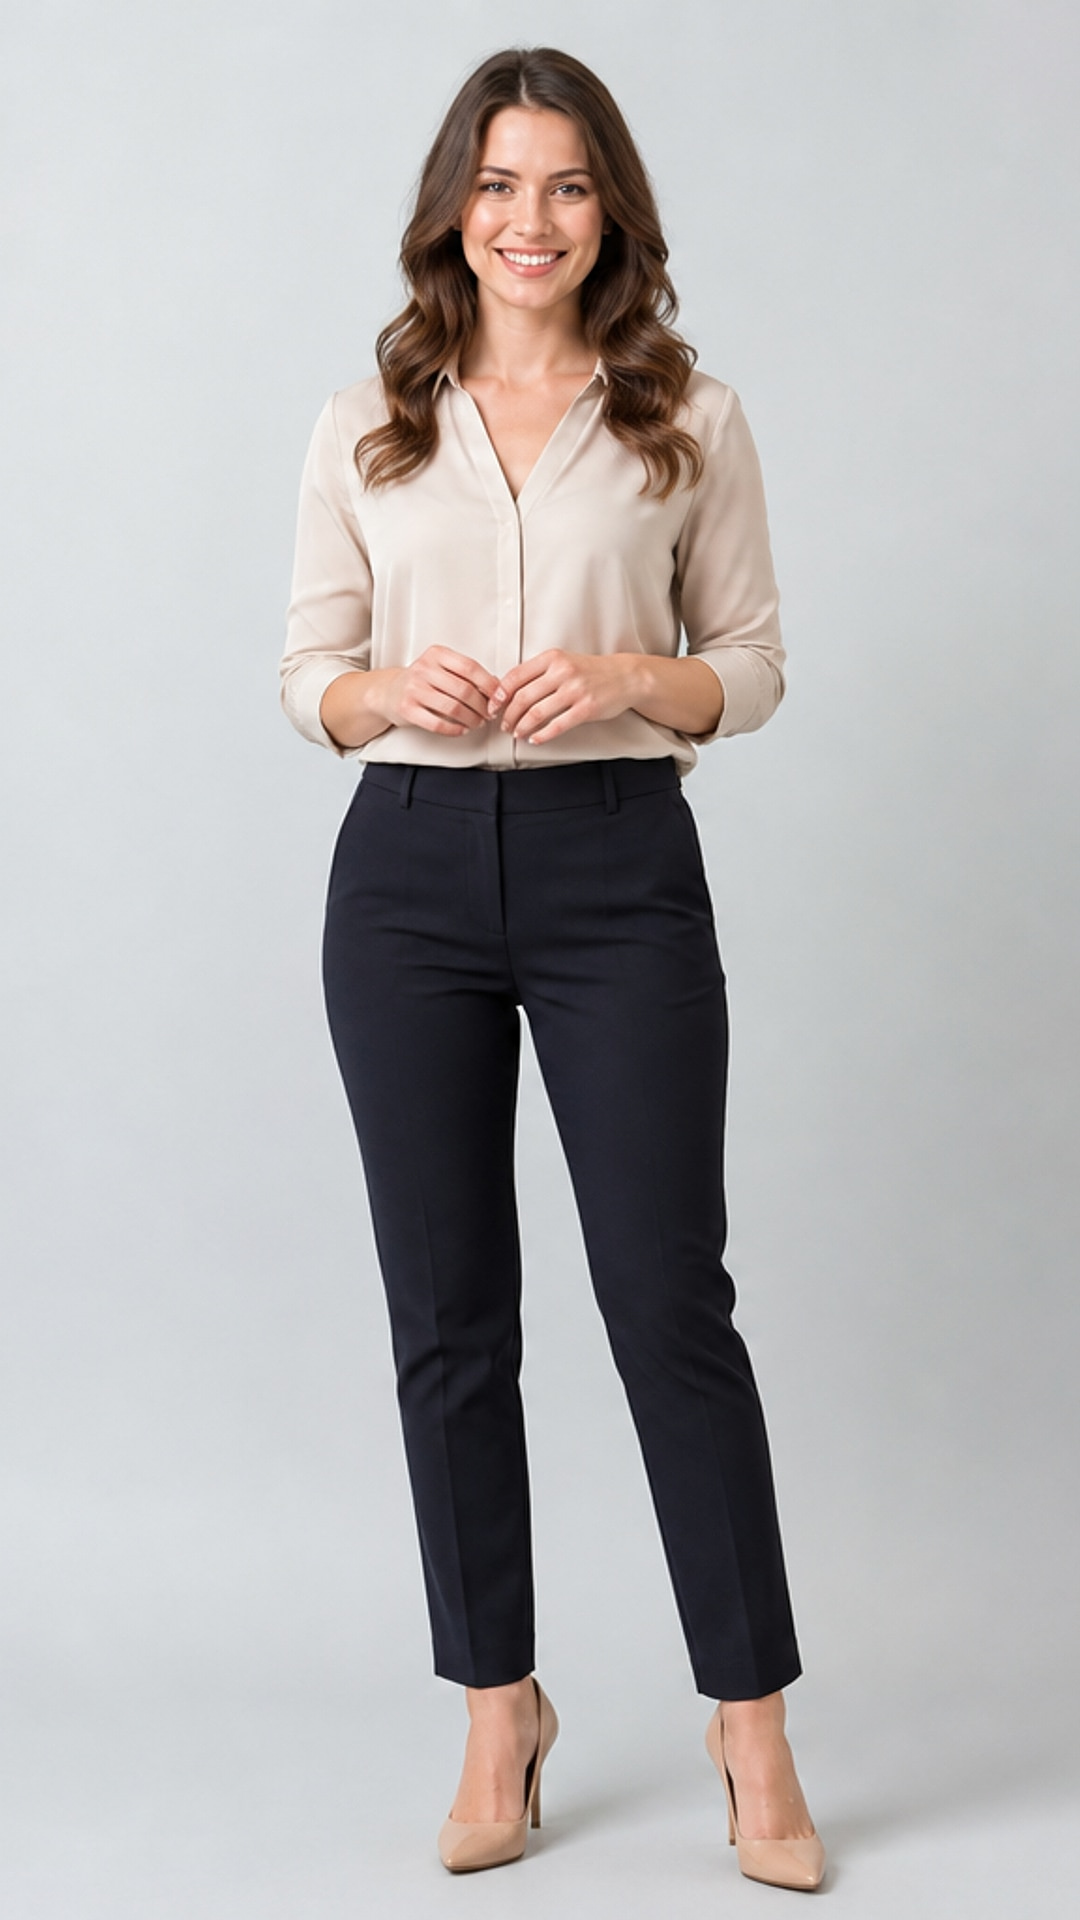
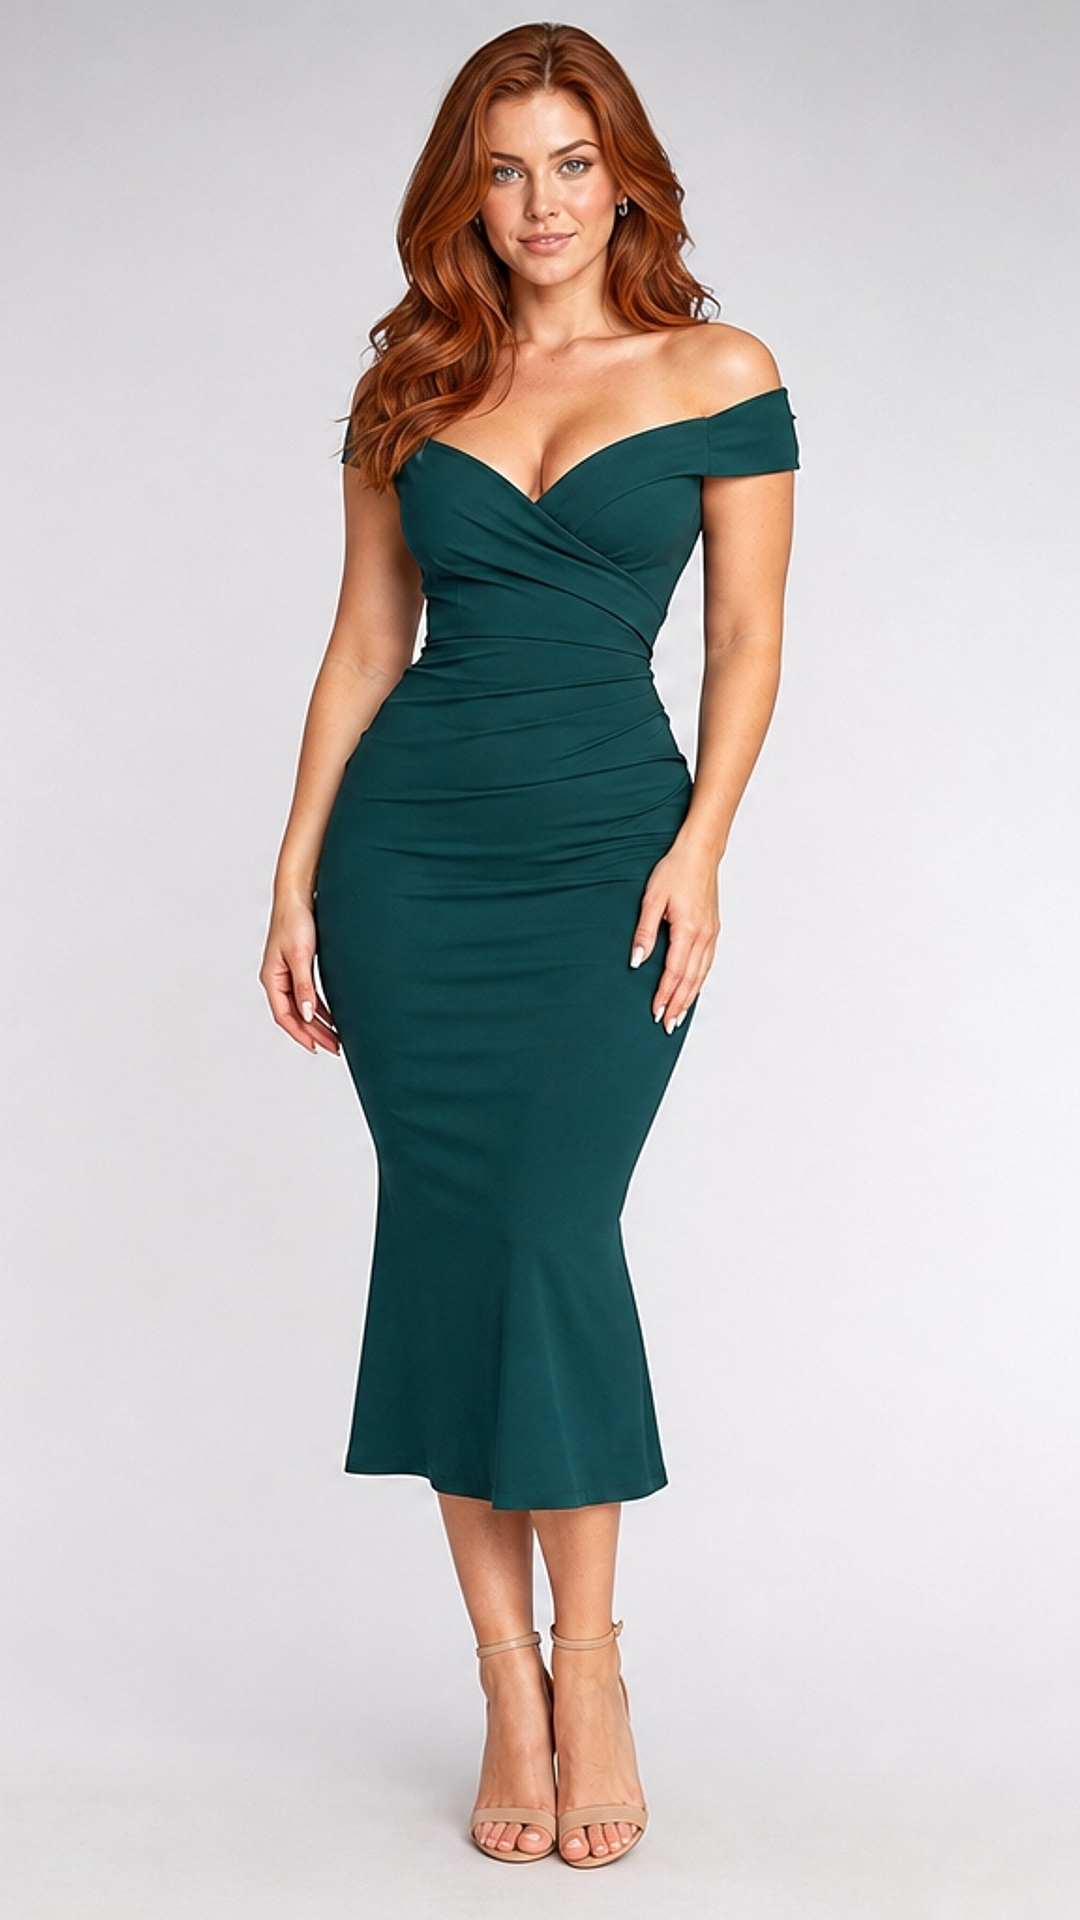
feat(dh): 更新 3 张预置形象（中国半身/欧美半身+全身）
用内置 AI 生成新面孔，写入 public 并递增预览缓存版本 dh20260619b。

diff --git a/web版/merchant-erp/src/lib/digitalHumanBroadcast.ts b/web版/merchant-erp/src/lib/digitalHumanBroadcast.ts
@@ -123,7 +123,7 @@ export type DigitalHumanWork = {
 }
 
 /** 预置 JPG 换图后递增，破 cs 上 /digital-human/avatars 7 天缓存 */
-export const PRESET_AVATAR_ASSET_VERSION = 'dh20260619'
+export const PRESET_AVATAR_ASSET_VERSION = 'dh20260619b'
 
 export function presetAvatarPreviewUrl(file: string): string {
   return `/digital-human/avatars/${file}?v=${PRESET_AVATAR_ASSET_VERSION}`
